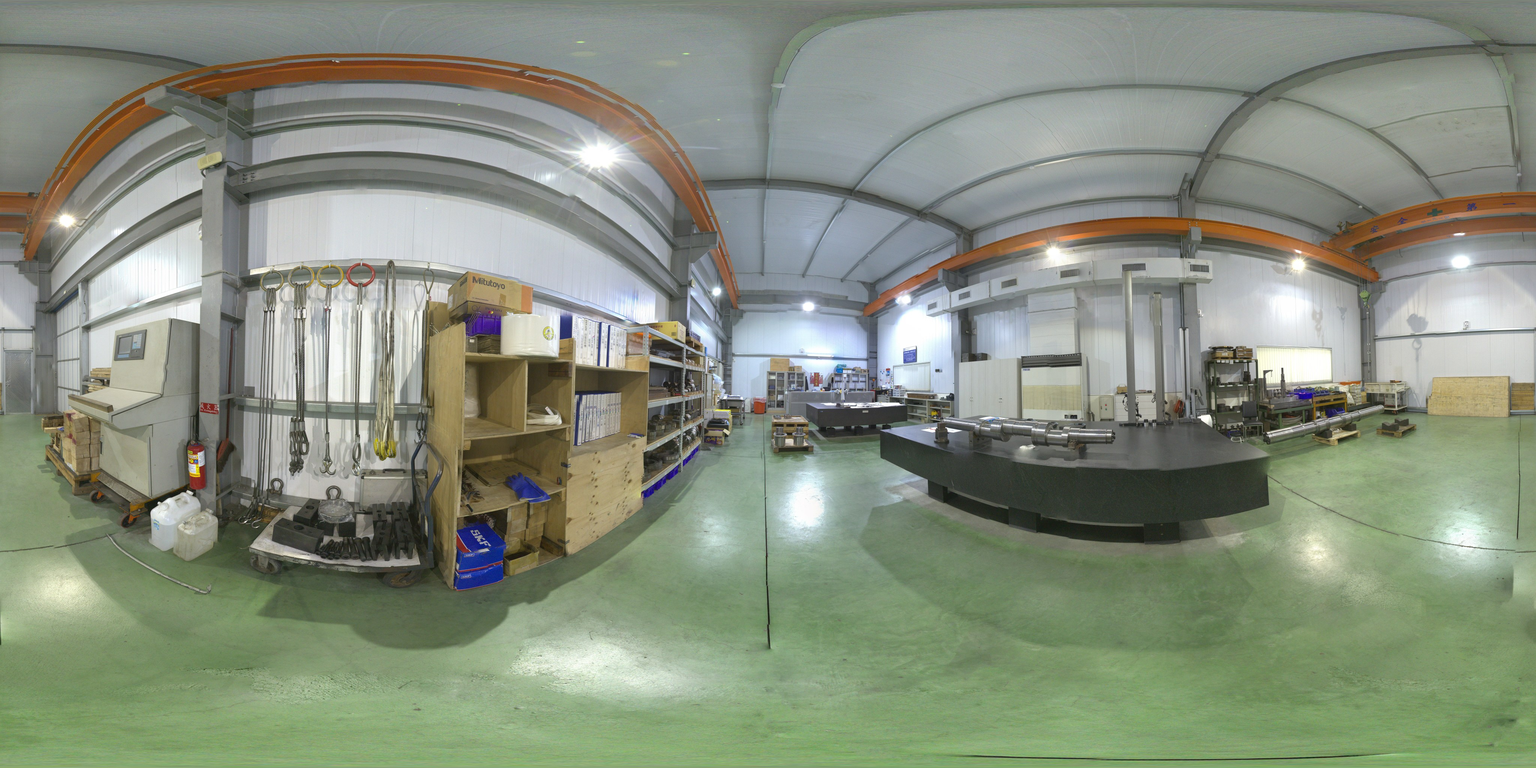
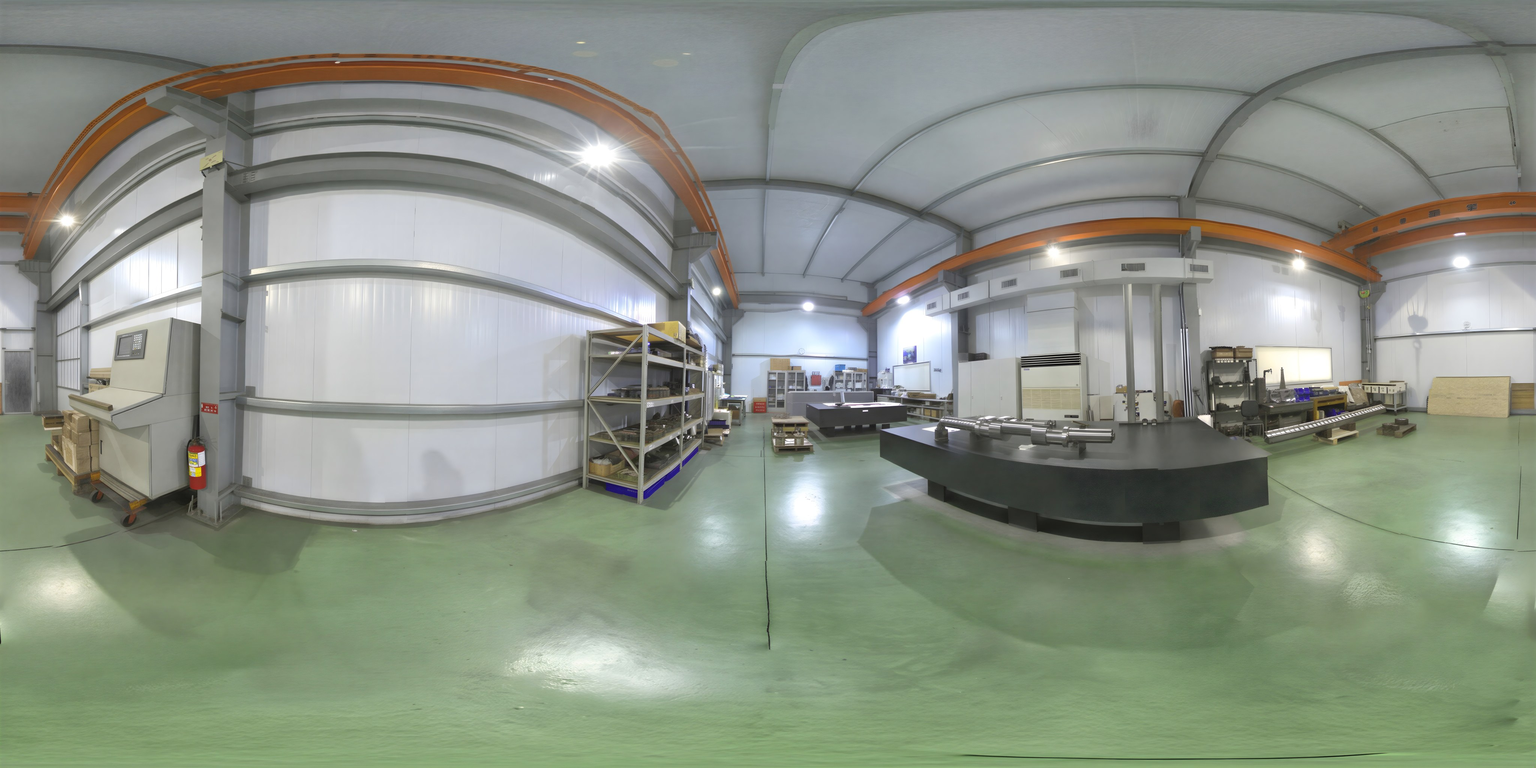
套用一樓品管室新環景大圖，更新品保室背景並部署公開站（v235）。

diff --git a/index.html b/index.html
@@ -11,8 +11,8 @@
   <link href="https://fonts.googleapis.com/css2?family=Noto+Sans+TC:wght@400;500;600;700&family=Noto+Serif+TC:wght@600;700&display=swap" rel="stylesheet">
   <link rel="stylesheet" href="https://cdn.jsdelivr.net/npm/@photo-sphere-viewer/core@5.14.1/index.css">
   <link rel="stylesheet" href="https://cdn.jsdelivr.net/npm/@photo-sphere-viewer/markers-plugin@5.14.1/index.css">
-  <link rel="preload" as="image" href="./media/panoramas-lite/station-1f-corridor.jpg?v=230">
-  <link rel="stylesheet" href="./css/tour.css?v=230">
+  <link rel="preload" as="image" href="./media/panoramas-lite/station-1f-corridor.jpg?v=235">
+  <link rel="stylesheet" href="./css/tour.css?v=235">
   <script type="importmap">
   {
     "imports": {
@@ -98,13 +98,13 @@
       <div class="f360-presenter" data-guide-avatar aria-hidden="true">
         <img
           class="f360-presenter__img"
-          src="./media/guide/presenter_closed.png?v=226"
+          src="./media/guide/presenter_closed.png?v=235"
           alt=""
           decoding="async"
         >
         <img
           class="f360-presenter__img f360-presenter__img--open"
-          src="./media/guide/presenter_open.png?v=226"
+          src="./media/guide/presenter_open.png?v=235"
           alt=""
           decoding="async"
         >
@@ -187,6 +187,6 @@
     </div>
   </div>
 
-  <script type="module" src="./js/tour.js?v=233"></script>
+  <script type="module" src="./js/tour.js?v=235"></script>
 </body>
 </html>

diff --git a/js/tour.js b/js/tour.js
@@ -15,7 +15,7 @@ try {
   guideApi = null;
 }
 
-const MEDIA_VERSION = '233';
+const MEDIA_VERSION = '235';
 const STATIONS_URL = `./media/stations.json?v=${MEDIA_VERSION}`;
 const LITE_PANO_WIDTH = 4096;
 const LITE_PANO_HEIGHT = 2048;
